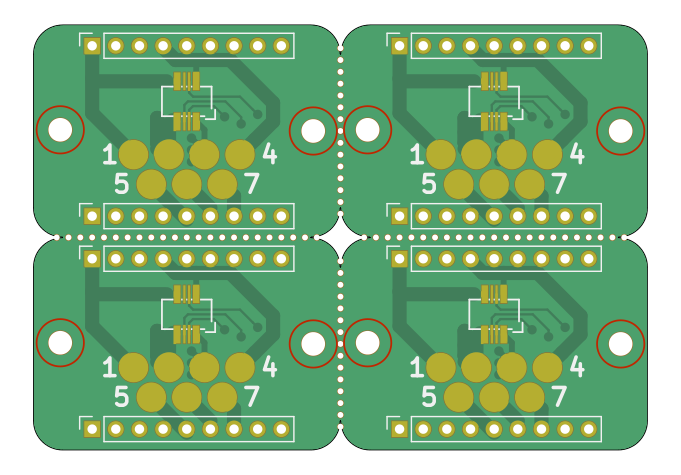
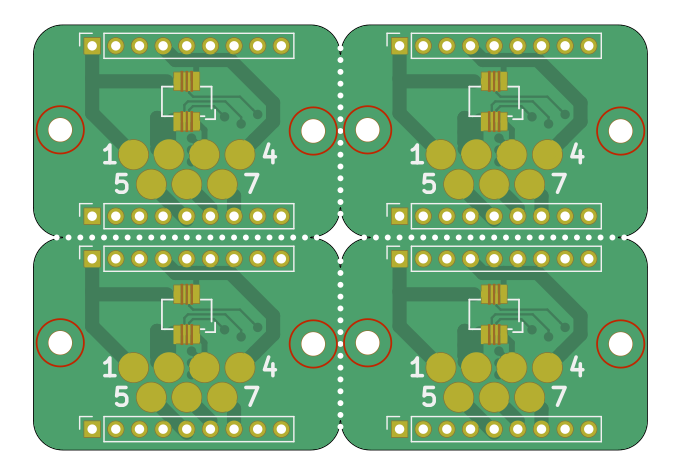
Implement board alternation

diff --git a/kikit/panelize.py b/kikit/panelize.py
@@ -22,6 +22,51 @@ class PanelError(RuntimeError):
 def identity(x):
     return x
 
+class BasicGridPosition:
+    """
+    Specify board position in the grid. This class
+    """
+    def __init__(self, destination, boardSize, horSpace, verSpace):
+        self.destination = destination
+        self.boardSize = boardSize
+        self.horSpace = horSpace
+        self.verSpace = verSpace
+
+    def position(self, i, j):
+        return wxPoint(self.destination[0] + j * (self.boardSize.GetWidth() + self.horSpace),
+                       self.destination[1] + i * (self.boardSize.GetHeight() + self.verSpace))
+
+    def rotation(self, i, j):
+        return 0
+
+class OddEvenRowsPosition(BasicGridPosition):
+    """
+    Rotate boards by 180° for every row
+    """
+    def rotation(self, i, j):
+        if i % 2 == 0:
+            return 0
+        return 1800
+
+class OddEvenColumnPosition(BasicGridPosition):
+    """
+    Rotate boards by 180° for every column
+    """
+    def rotation(self, i, j):
+        if j % 2 == 0:
+            return 0
+        return 1800
+
+class OddEvenRowsColumnsPosition(BasicGridPosition):
+    """
+    Rotate boards by 180 for every row and column
+    """
+    def rotation(self, i, j):
+        if (i * j) % 2 == 0:
+            return 0
+        return 1800
+
+
 class Origin(Enum):
     Center = 0
     TopLeft = 1
@@ -449,24 +494,25 @@ class Panel:
             segments.append(label)
         return segments
 
-    def _boardGridPos(self, destination, i, j, boardSize, horSpace, verSpace):
-        return wxPoint(destination[0] + j * (boardSize.GetWidth() + horSpace),
-                       destination[1] + i * (boardSize.GetHeight() + verSpace))
-
     def _placeBoardsInGrid(self, boardfile, rows, cols, destination, sourceArea, tolerance,
-                  verSpace, horSpace, rotation, netRenamer, refRenamer):
+                  verSpace, horSpace, rotation, netRenamer, refRenamer,
+                  placementClass):
         """
         Create a grid of boards, return source board size aligned at the top
         left corner
         """
         boardSize = wxRect(0, 0, 0, 0)
         topLeftSize = None
+        placement = placementClass(destination, boardSize, horSpace, verSpace)
         for i, j in product(range(rows), range(cols)):
-            dest = self._boardGridPos(destination, i, j, boardSize, horSpace, verSpace)
-            boardSize = self.appendBoard(boardfile, dest, sourceArea=sourceArea,
-                                         tolerance=tolerance, origin=Origin.TopLeft,
-                                         rotationAngle=rotation, netRenamer=netRenamer,
-                                         refRenamer=refRenamer)
+            placement.boardSize = boardSize
+            dest = placement.position(i, j)
+            boardRotation = rotation + placement.rotation(i, j)
+            boardSize = self.appendBoard(
+                boardfile, dest, sourceArea=sourceArea,
+                tolerance=tolerance, origin=Origin.Center,
+                rotationAngle=boardRotation, netRenamer=netRenamer,
+                refRenamer=refRenamer)
             if not topLeftSize:
                 topLeftSize = boardSize
         return topLeftSize
@@ -567,11 +613,13 @@ class Panel:
 
     def _makeVerGridTabs(self, destination, rows, cols, boardSize, verSpace,
                       horSpace, verTabWidth, horTabWidth, verTabCount,
-                      horTabCount, outerVerTabThickness, outerHorTabThickness):
+                      horTabCount, outerVerTabThickness, outerHorTabThickness,
+                      placementClass):
+        placement = placementClass(destination, boardSize, horSpace, verSpace)
         polygons = []
         cuts = []
         for i, j in product(range(rows), range(cols)):
-            dest = self._boardGridPos(destination, i, j, boardSize, horSpace, verSpace)
+            dest = placement.position(i, j)
             if (i != 0 and verSpace > 0) or outerVerTabThickness > 0: # Add tabs to the top side
                 tabThickness = outerVerTabThickness if i == 0 else verSpace / 2
                 for tabPos in self._tabSpacing(boardSize.GetWidth(), verTabCount):
@@ -590,11 +638,13 @@ class Panel:
 
     def _makeHorGridTabs(self, destination, rows, cols, boardSize, verSpace,
                       horSpace, verTabWidth, horTabWidth, verTabCount,
-                      horTabCount, outerVerTabThickness, outerHorTabThickness):
+                      horTabCount, outerVerTabThickness, outerHorTabThickness,
+                      placementClass):
+        placement = placementClass(destination, boardSize, horSpace, verSpace)
         polygons = []
         cuts = []
         for i, j in product(range(rows), range(cols)):
-            dest = self._boardGridPos(destination, i, j, boardSize, horSpace, verSpace)
+            dest = placement.position(i, j)
             if (j != 0 and horSpace > 0) or outerHorTabThickness > 0: # Add tabs to the left side
                 tabThickness = outerHorTabThickness if j == 0 else horSpace / 2
                 for tabPos in self._tabSpacing(boardSize.GetHeight(), horTabCount):
@@ -617,6 +667,7 @@ class Panel:
                  horTabCount=1, verTabWidth=0, horTabWidth=0,
                  outerVerTabThickness=0, outerHorTabThickness=0, rotation=0,
                  forceOuterCutsH=False, forceOuterCutsV=False,
+                 placementClass=BasicGridPosition,
                  netRenamePattern="Board_{n}-{orig}",
                  refRenamePattern="Board_{n}-{orig}"):
         """
@@ -637,7 +688,7 @@ class Panel:
         refRenamer = lambda x, y: refRenamePattern.format(n=x, orig=y)
         boardSize = self._placeBoardsInGrid(boardfile, rows, cols, destination,
                                     sourceArea, tolerance, verSpace, horSpace,
-                                    rotation, netRenamer, refRenamer)
+                                    rotation, netRenamer, refRenamer, placementClass)
         gridDest = wxPoint(boardSize.GetX(), boardSize.GetY())
         tabs, cuts = [], []
 
@@ -649,7 +700,8 @@ class Panel:
             else:
                 t, c = self._makeVerGridTabs(gridDest, rows, cols, boardSize,
                     verSpace, horSpace, verTabWidth, horTabWidth, verTabCount,
-                    horTabCount, outerVerTabThickness, outerHorTabThickness)
+                    horTabCount, outerVerTabThickness, outerHorTabThickness,
+                    placementClass)
             tabs += t
             cuts += c
 
@@ -661,11 +713,12 @@ class Panel:
             else:
                 t, c = self._makeHorGridTabs(gridDest, rows, cols, boardSize,
                     verSpace, horSpace, verTabWidth, horTabWidth, verTabCount,
-                    horTabCount, outerVerTabThickness, outerHorTabThickness)
+                    horTabCount, outerVerTabThickness, outerHorTabThickness,
+                    placementClass)
             tabs += t
             cuts += c
 
-        tabs = list([t.buffer(fromMm(0.001), join_style=2) for t in tabs])
+        tabs = list([t.buffer(fromMm(0.01), join_style=2) for t in tabs])
         self.appendSubstrate(tabs)
 
         return (wxRect(gridDest[0], gridDest[1],
@@ -678,6 +731,7 @@ class Panel:
                       horSpace, slotWidth, width, height, sourceArea=None,
                       tolerance=0, verTabWidth=0, horTabWidth=0,
                       verTabCount=1, horTabCount=1, rotation=0,
+                      placementClass=BasicGridPosition,
                       netRenamePattern="Board_{n}-{orig}",
                       refRenamePattern="Board_{n}-{orig}"):
         """
@@ -688,7 +742,7 @@ class Panel:
         refRenamer = lambda x, y: refRenamePattern.format(n=x, orig=y)
         boardSize = self._placeBoardsInGrid(boardfile, rows, cols, destination,
                                     sourceArea, tolerance, verSpace, horSpace,
-                                    rotation, netRenamer, refRenamer)
+                                    rotation, netRenamer, refRenamer, placementClass)
         gridDest = wxPoint(boardSize.GetX(), boardSize.GetY())
         panelSize = wxRect(gridDest[0], gridDest[1],
                        cols * boardSize.GetWidth() + (cols - 1) * horSpace,
@@ -698,13 +752,13 @@ class Panel:
         if verTabCount != 0:
             t, c = self._makeVerGridTabs(gridDest, rows, cols, boardSize,
                     verSpace, horSpace, verTabWidth, horTabWidth, verTabCount,
-                    horTabCount, slotWidth, slotWidth)
+                    horTabCount, slotWidth, slotWidth, placementClass)
             tabs += t
             cuts += c
         if horTabCount != 0:
             t, c = self._makeHorGridTabs(gridDest, rows, cols, boardSize,
                     verSpace, horSpace, verTabWidth, horTabWidth, verTabCount,
-                    horTabCount, slotWidth, slotWidth)
+                    horTabCount, slotWidth, slotWidth, placementClass)
             tabs += t
             cuts += c
 
@@ -720,7 +774,7 @@ class Panel:
         frame = frame.difference(self.boardSubstrate.exterior().buffer(slotWidth))
         self.appendSubstrate(frame)
 
-        tabs = list([t.buffer(fromMm(0.001), join_style=2) for t in tabs])
+        tabs = list([t.buffer(fromMm(0.01), join_style=2) for t in tabs])
         self.appendSubstrate(tabs)
 
         if verTabCount != 0 or horTabCount != 0:

diff --git a/kikit/panelize_ui.py b/kikit/panelize_ui.py
@@ -7,6 +7,21 @@ def validateSpaceRadius(space, radius):
         raise RuntimeError(f"Fillet radius ({radius} mm) has to be greater than " \
                            f"space between boards ({space} mm)")
 
+def getPlacementClass(name):
+    from kikit.panelize import (BasicGridPosition, OddEvenColumnPosition,
+        OddEvenRowsPosition, OddEvenRowsColumnsPosition)
+    mapping = {
+        "none": BasicGridPosition,
+        "rows": OddEvenRowsPosition,
+        "cols": OddEvenColumnPosition,
+        "rowsCols": OddEvenRowsColumnsPosition
+    }
+    try:
+        return mapping[name]
+    except KeyError:
+        raise RuntimeError(f"Invalid alternation option '{name}' passed. " +
+            "Valid options are: " + ", ".join(mapping.keys()))
+
 @click.group()
 def panelize():
     """
@@ -83,10 +98,12 @@ def extractBoard(input, output, sourcearea):
     help="Add tooling holes to corners of the panel. Specify <horizontalOffset> <verticalOffset> <diameter>.")
 @click.option("--fiducials", type=(float, float, float, float), default=(None, None, None, None),
     help="Add fiducials holes to corners of the panel. Specify <horizontalOffset> <verticalOffset> <copperDiameter> <openingDiameter>.")
+@click.option("--alternation", type=str, default="none",
+    help="Rotate the boards based on their positions in the grid. Valid options: default, rows, cols, rowsCols")
 def grid(input, output, space, gridsize, panelsize, tabwidth, tabheight, vcuts,
          mousebites, radius, sourcearea, vcutcurves, htabs, vtabs, rotation,
          tolerance, renamenet, renameref, tabsfrom, framecutv, framecuth,
-         copperfill, railstb, railslr, tooling, fiducials):
+         copperfill, railstb, railslr, tooling, fiducials, alternation):
     """
     Create a regular panel placed in a frame.
 
@@ -121,6 +138,7 @@ def grid(input, output, space, gridsize, panelsize, tabwidth, tabheight, vcuts,
             frame = False
             railslr = fromMm(railslr)
             oht = fromMm(space)
+        placementClass = getPlacementClass(alternation)
 
         validateSpaceRadius(space, radius)
         tolerance = fromMm(tolerance)
@@ -131,7 +149,8 @@ def grid(input, output, space, gridsize, panelsize, tabwidth, tabheight, vcuts,
             outerHorTabThickness=oht, outerVerTabThickness=ovt,
             horTabCount=htabs, verTabCount=vtabs, rotation=fromDegrees(rotation),
             netRenamePattern=renamenet, refRenamePattern=renameref,
-            forceOuterCutsV=railstb or frame, forceOuterCutsH=railslr or frame)
+            forceOuterCutsV=railstb or frame, forceOuterCutsH=railslr or frame,
+            placementClass=placementClass)
         tabs = []
         for layer, width in tabsfrom:
             tab, cut = panel.layerToTabs(layer, fromMm(width))
@@ -205,9 +224,12 @@ def grid(input, output, space, gridsize, panelsize, tabwidth, tabheight, vcuts,
     help="Add tooling holes to corners of the panel. Specify <horizontalOffset> <verticalOffset> <diameter>.")
 @click.option("--fiducials", type=(float, float, float, float), default=(None, None, None, None),
     help="Add fiducials holes to corners of the panel. Specify <horizontalOffset> <verticalOffset> <copperDiameter> <openingDiameter>.")
+@click.option("--alternation", type=str, default="none",
+    help="Rotate the boards based on their positions in the grid. Valid options: default, rows, cols, rowsCols")
 def tightgrid(input, output, space, gridsize, panelsize, tabwidth, tabheight, vcuts,
          mousebites, radius, sourcearea, vcutcurves, htabs, vtabs, rotation, slotwidth,
-         tolerance, renamenet, renameref, tabsfrom, copperfill, fiducials, tooling):
+         tolerance, renamenet, renameref, tabsfrom, copperfill, fiducials, tooling,
+         alternation):
     """
     Create a regular panel placed in a frame by milling a slot around the
     boards' perimeters.
@@ -227,6 +249,7 @@ def tightgrid(input, output, space, gridsize, panelsize, tabwidth, tabheight, vc
         else:
             sourcearea = None
         w, h = panelsize
+        placementClass = getPlacementClass(alternation)
         validateSpaceRadius(space, radius)
         if 2 * radius > 1.1 * slotwidth:
             raise RuntimeError("The slot is too narrow for given radius (it has to be at least 10% larger")
@@ -237,7 +260,8 @@ def tightgrid(input, output, space, gridsize, panelsize, tabwidth, tabheight, vc
             sourceArea=sourcearea, tolerance=tolerance,
             verTabWidth=fromMm(tabwidth), horTabWidth=fromMm(tabheight),
             verTabCount=htabs, horTabCount=vtabs, rotation=fromDegrees(rotation),
-            netRenamePattern=renamenet, refRenamePattern=renameref)
+            netRenamePattern=renamenet, refRenamePattern=renameref,
+            placementClass=placementClass)
         tabs = []
         for layer, width in tabsfrom:
             tab, cut = panel.layerToTabs(layer, fromMm(width))

diff --git a/scripts/exampleDoc.py b/scripts/exampleDoc.py
@@ -166,6 +166,20 @@ runBoardExample("panel9",
 
 print(
 """
+Especially for irregular shaped board it might make sense to rotate boards by
+180° based on their position in the grid. It could allow you to pack the boards
+more closely. Also, if you create a panel out of boards that have e.g., a
+connector on one side, it makes sense to rotate the second column by 180° so the
+connectors are facing out of the panel. You can do so by specifying the
+`--alternation` option. This options allows you to rotate board in every second
+column (`cols`), every second row (`rows`) or combination of both:
+"""
+)
+runBoardExample("panel10",
+    ["panelize", "grid", "--space", "2", "--gridsize", "2", "2", "--tabwidth", "3", "--tabheight", "3", "--mousebites", "0.5", "1", "0.25", "--radius", "1", "--panelsize", "80", "80", "--alternation", "cols", "doc/resources/conn.kicad_pcb"])
+
+print(
+"""
 Sometimes you might find yourself in a need for precise tab placement. This can be
 easily done. Just draw a line in one of KiCAD layers (be careful, the
 orientation matters - the line has to target the board substrate) and specify
@@ -174,7 +188,7 @@ specifying `--vtabs 0` and `--htabs 0`. See for yourself, there are some lines
 already prepared for you in `conn.kicad_pcb`
 """
 )
-runBoardExample("panel10",
+runBoardExample("panel11",
     ["panelize", "tightgrid", "--slotwidth", "2.5", "--space", "8", "--gridsize", "2", "2", "--htabs", "0", "--vtabs", "0", "--tabsfrom", "Eco2.User", "3", "--tabsfrom", "Eco1.User", "5", "--mousebites", "0.5", "1", "0.25", "--radius", "1", "--panelsize", "80", "80", "doc/resources/conn.kicad_pcb"])
 
 print(
@@ -187,5 +201,5 @@ fill:
 """
 )
 
-runBoardExample("panel11",
+runBoardExample("panel12",
     ["panelize", "grid", "--space", "3", "--gridsize", "2", "2", "--tabwidth", "18", "--tabheight", "10", "--vcuts", "--radius", "1", "--panelsize", "70", "55", "--copperfill", "doc/resources/conn.kicad_pcb"])

diff --git a/doc/examples.md b/doc/examples.md
@@ -145,6 +145,19 @@ kikit panelize grid --space 2 --gridsize 2 2 --tabwidth 3 --tabheight 3 --mouseb
 ```
 ![panel9](resources/panel9.png)
 
+Especially for irregular shaped board it might make sense to rotate boards by
+180° based on their position in the grid. It could allow you to pack the boards
+more closely. Also, if you create a panel out of boards that have e.g., a
+connector on one side, it makes sense to rotate the second column by 180° so the
+connectors are facing out of the panel. You can do so by specifying the
+`--alternation` option. This options allows you to rotate board in every second
+column (`cols`), every second row (`rows`) or combination of both:
+
+```
+kikit panelize grid --space 2 --gridsize 2 2 --tabwidth 3 --tabheight 3 --mousebites 0.5 1 0.25 --radius 1 --panelsize 80 80 --alternation cols doc/resources/conn.kicad_pcb panel.kicad_pcb
+```
+![panel10](resources/panel10.png)
+
 Sometimes you might find yourself in a need for precise tab placement. This can be
 easily done. Just draw a line in one of KiCAD layers (be careful, the
 orientation matters - the line has to target the board substrate) and specify
@@ -155,7 +168,7 @@ already prepared for you in `conn.kicad_pcb`
 ```
 kikit panelize tightgrid --slotwidth 2.5 --space 8 --gridsize 2 2 --htabs 0 --vtabs 0 --tabsfrom Eco2.User 3 --tabsfrom Eco1.User 5 --mousebites 0.5 1 0.25 --radius 1 --panelsize 80 80 doc/resources/conn.kicad_pcb panel.kicad_pcb
 ```
-![panel10](resources/panel10.png)
+![panel11](resources/panel11.png)
 
 Especially when you work with flex PCBs it makes sense to leave copper on
 non-functional parts of the panel to make it stiffer. It might also make sense
@@ -166,4 +179,4 @@ fill:
 ```
 kikit panelize grid --space 3 --gridsize 2 2 --tabwidth 18 --tabheight 10 --vcuts --radius 1 --panelsize 70 55 --copperfill doc/resources/conn.kicad_pcb panel.kicad_pcb
 ```
-![panel11](resources/panel11.png)
+![panel12](resources/panel12.png)

diff --git a/doc/panelization.md b/doc/panelization.md
@@ -102,6 +102,7 @@ makeGrid(self, boardfile, rows, cols, destination, sourceArea=None, tolerance=0,
          verSpace=0, horSpace=0, verTabCount=1, horTabCount=1, verTabWidth=0, 
          horTabWidth=0, outerVerTabThickness=0, outerHorTabThickness=0, 
          rotation=0, forceOuterCutsH=False, forceOuterCutsV=False, 
+         placementClass=<class 'kikit.panelize.BasicGridPosition'>, 
          netRenamePattern=Board_{n}-{orig}, refRenamePattern=Board_{n}-{orig})
 ```
 Creates a grid of boards (row x col) as a panel at given destination
@@ -120,7 +121,9 @@ makeMouseBites.
 makeTightGrid(self, boardfile, rows, cols, destination, verSpace, horSpace, 
               slotWidth, width, height, sourceArea=None, tolerance=0, 
               verTabWidth=0, horTabWidth=0, verTabCount=1, horTabCount=1, 
-              rotation=0, netRenamePattern=Board_{n}-{orig}, 
+              rotation=0, 
+              placementClass=<class 'kikit.panelize.BasicGridPosition'>, 
+              netRenamePattern=Board_{n}-{orig}, 
               refRenamePattern=Board_{n}-{orig})
 ```
 Creates a grid of boards just like `makeGrid`, however, it creates a

diff --git a/doc/cli.md b/doc/cli.md
@@ -34,6 +34,12 @@ the following commands available:
   - `-s, --space FLOAT` Space between boards
   - `-g, --gridsize <INTEGER INTEGER>` Panel size `<rows> <cols>`
   - `-p, --panelsize <FLOAT FLOAT>` `<width> <height>` in millimeters
+  - `-a, --alternation <NAME>` allows you to specify board orientation
+    alternation. There are possible options:
+    - `none` - do not rotate the boards
+    - `rows` - rotate boards in even rows by 180°
+    - `cols` - rotate boards in even columns by 180°
+    - `rowsCols` - rotate boards on the black fields of a chessboard by by 180°
   - `--tabwidth FLOAT` Size of the bottom/up tabs, leave unset for full width
   - `--tabheight FLOAT` Size of the left/right tabs, leave unset for full height
   - `--htabs INT` Number of horizontal tabs per board
